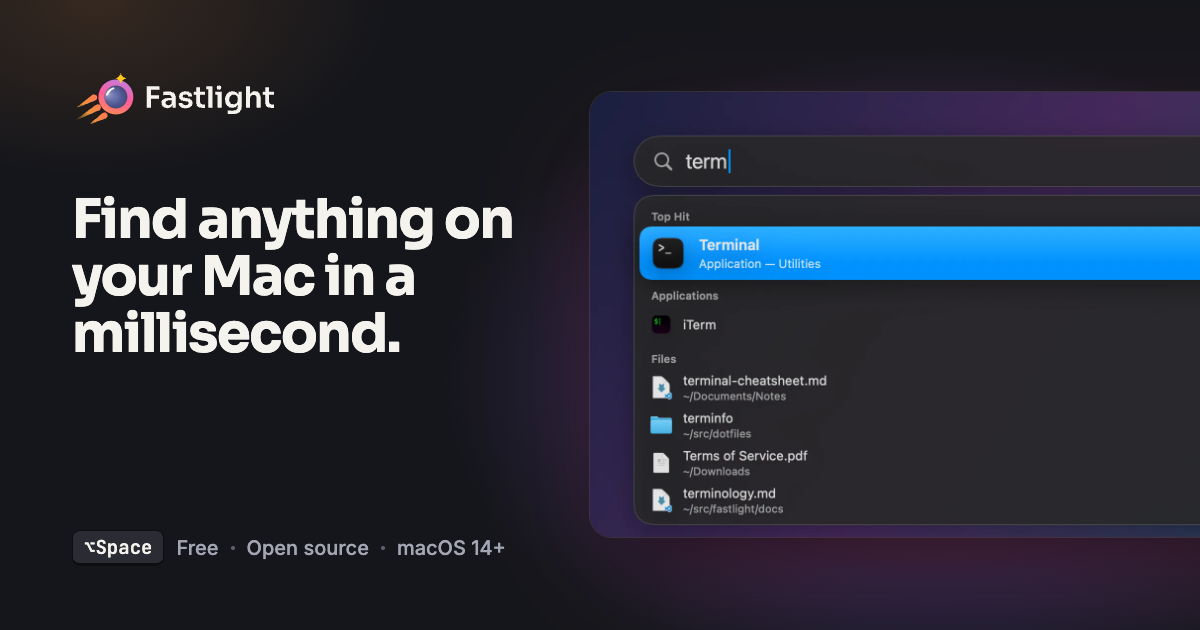
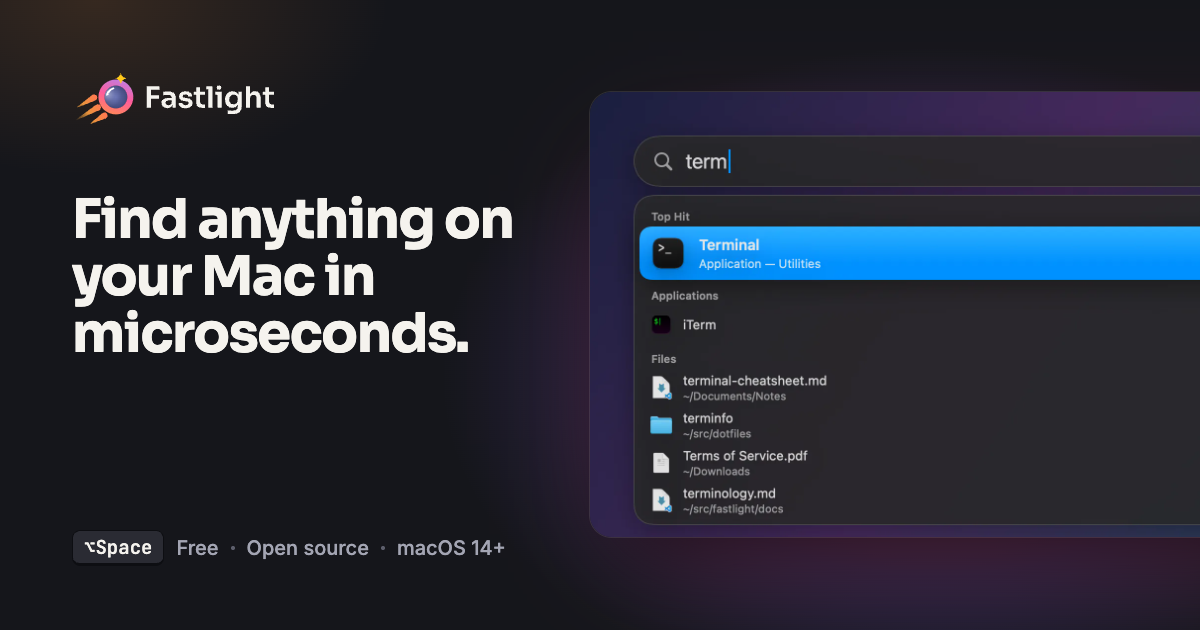
docs: microseconds, not a millisecond, and fsearch's current numbers (#29)
The fsearch bundled since 0.5.0 finds a file by name in 0.13 ms (median),
so the README, the site, its meta tags and the og images now say
microseconds. The site's speed table had the numbers of the fsearch before
the upgrade (7.7M files, 1.3 ms, 9 ms, ~20 s first crawl); it now has
fsearch's README at b88f4e9: 8.3M files, 0.13 ms, 2.3 ms, 49 s until fully
searchable.

Changed region(s): [[0.1233, 0.4222, 0.4008, 0.573]]

diff --git a/site/index.html b/site/index.html
@@ -18,7 +18,7 @@ FORM: Product-led landing page, brand pinned by assets/brand/BRAND.md.
 <meta charset="utf-8">
 <meta name="viewport" content="width=device-width, initial-scale=1">
 <title>Fastlight: a fast, free launcher for macOS</title>
-<meta name="description" content="Fastlight is a free, open-source Spotlight-style launcher for macOS. Press ⌥Space and find apps and any file on your disk in about a millisecond, powered by fsearch.">
+<meta name="description" content="Fastlight is a free, open-source Spotlight-style launcher for macOS. Press ⌥Space and find apps and any file on your disk in microseconds, powered by fsearch.">
 <link rel="canonical" href="https://elboletaire.github.io/fastlight/">
 <meta name="theme-color" content="#15161B" media="(prefers-color-scheme: light)">
 <meta name="theme-color" content="#15161B" media="(prefers-color-scheme: dark)">
@@ -29,15 +29,15 @@ FORM: Product-led landing page, brand pinned by assets/brand/BRAND.md.
 <meta property="og:locale" content="en_US">
 <meta property="og:url" content="https://elboletaire.github.io/fastlight/">
 <meta property="og:title" content="Fastlight: a fast, free launcher for macOS">
-<meta property="og:description" content="Press ⌥Space, type, and find apps and any file on your disk in about a millisecond. Free and open source, powered by fsearch.">
+<meta property="og:description" content="Press ⌥Space, type, and find apps and any file on your disk in microseconds. Free and open source, powered by fsearch.">
 <meta property="og:image" content="https://elboletaire.github.io/fastlight/og.png">
 <meta property="og:image:type" content="image/png">
 <meta property="og:image:width" content="1200">
 <meta property="og:image:height" content="630">
-<meta property="og:image:alt" content="The Fastlight panel showing Terminal as the top hit for the query “term”, next to the Fastlight logo and the line “Find anything on your Mac in a millisecond.”">
+<meta property="og:image:alt" content="The Fastlight panel showing Terminal as the top hit for the query “term”, next to the Fastlight logo and the line “Find anything on your Mac in microseconds.”">
 <meta name="twitter:card" content="summary_large_image">
 <meta name="twitter:title" content="Fastlight: a fast, free launcher for macOS">
-<meta name="twitter:description" content="Press ⌥Space, type, and find apps and any file on your disk in about a millisecond. Free and open source, powered by fsearch.">
+<meta name="twitter:description" content="Press ⌥Space, type, and find apps and any file on your disk in microseconds. Free and open source, powered by fsearch.">
 <meta name="twitter:image" content="https://elboletaire.github.io/fastlight/og.png">
 <meta name="twitter:image:alt" content="The Fastlight panel showing Terminal as the top hit for the query “term”, next to the Fastlight logo.">
 
@@ -59,7 +59,7 @@ FORM: Product-led landing page, brand pinned by assets/brand/BRAND.md.
   "@context": "https://schema.org",
   "@type": "SoftwareApplication",
   "name": "Fastlight",
-  "description": "A free, open-source Spotlight-style launcher for macOS. Finds applications and files across the whole disk in about a millisecond, powered by fsearch.",
+  "description": "A free, open-source Spotlight-style launcher for macOS. Finds applications and files across the whole disk in microseconds, powered by fsearch.",
   "url": "https://elboletaire.github.io/fastlight/",
   "image": "https://elboletaire.github.io/fastlight/og.png",
   "screenshot": "https://elboletaire.github.io/fastlight/assets/hero-apps-1536.webp",
@@ -106,7 +106,7 @@ FORM: Product-led landing page, brand pinned by assets/brand/BRAND.md.
     <div class="hero-copy">
       <h1 id="hero-title">Find anything on your&nbsp;Mac before you finish&nbsp;typing.</h1>
       <div class="hero-side">
-        <p class="lede">Fastlight is a free, open-source launcher for macOS. Press <kbd>⌥Space</kbd>, type a few letters, and it finds your apps and every file on the disk in about a millisecond.</p>
+        <p class="lede">Fastlight is a free, open-source launcher for macOS. Press <kbd>⌥Space</kbd>, type a few letters, and it finds your apps and every file on the disk in microseconds.</p>
         <div class="cta-row">
           <a class="btn btn-comet" href="https://github.com/elboletaire/fastlight/releases/latest">
             <svg viewBox="0 0 20 20" width="20" height="20" aria-hidden="true"><path d="M10 3v10m0 0-4-4m4 4 4-4M4 16h12" fill="none" stroke="currentColor" stroke-width="2" stroke-linecap="round" stroke-linejoin="round"/></svg>
@@ -149,18 +149,18 @@ FORM: Product-led landing page, brand pinned by assets/brand/BRAND.md.
 <div class="page">
   <section id="fast" class="section wrap" aria-labelledby="fast-title">
     <div class="split split-head">
-      <h2 id="fast-title">Millions of files. About a&nbsp;millisecond.</h2>
+      <h2 id="fast-title">Millions of files. Microseconds.</h2>
       <p class="intro">Fastlight ships <a href="https://github.com/noahdunnagan/fsearch">fsearch</a>, a whole-disk index that crawls once, then follows every change through FSEvents. Typing never waits on the disk.</p>
     </div>
 
     <div class="bench">
       <table>
-        <caption>fsearch’s own benchmark: M4 Max, 7.7 million files and folders on disk.</caption>
+        <caption>fsearch’s own benchmark: M4 Max, 8.3 million files on disk.</caption>
         <tbody>
-          <tr><th scope="row">Find a file by name, whole disk</th><td><span class="num">1.3</span> ms</td></tr>
-          <tr><th scope="row">Search inside files</th><td><span class="num">9</span> ms</td></tr>
+          <tr><th scope="row">Find a file by name, whole disk</th><td><span class="num">0.13</span> ms</td></tr>
+          <tr><th scope="row">Search inside files</th><td><span class="num">2.3</span> ms</td></tr>
           <tr><th scope="row">A new, renamed or deleted file shows up</th><td><span class="num">~0.1</span> s</td></tr>
-          <tr><th scope="row">First crawl of the disk, once</th><td><span class="num">~20</span> s</td></tr>
+          <tr><th scope="row">First run, until fully searchable</th><td><span class="num">49</span> s</td></tr>
         </tbody>
       </table>
       <p class="bench-note">Median (p50) times. Your Mac and your disk will differ.</p>
@@ -380,7 +380,7 @@ FORM: Product-led landing page, brand pinned by assets/brand/BRAND.md.
         </details>
         <details>
           <summary>How is it different from Spotlight?</summary>
-          <p>Spotlight relies on metadata importers and decides what is worth indexing; Fastlight indexes every file name it can reach and answers fuzzy, typo-tolerant queries in about a millisecond. It keeps apps and files in separate sections and adds a query language with filters such as <code>in:</code>, <code>mtime:</code> and <code>grep:</code>. It doesn’t replace Spotlight, so you can keep both.</p>
+          <p>Spotlight relies on metadata importers and decides what is worth indexing; Fastlight indexes every file name it can reach and answers fuzzy, typo-tolerant queries in microseconds. It keeps apps and files in separate sections and adds a query language with filters such as <code>in:</code>, <code>mtime:</code> and <code>grep:</code>. It doesn’t replace Spotlight, so you can keep both.</p>
         </details>
         <details>
           <summary>Can I extend it?</summary>

diff --git a/site/og/og.html b/site/og/og.html
@@ -36,7 +36,7 @@
   <div class="glow"></div>
   <div class="copy">
     <img class="lockup" src="../brand/logo-lockup-dark.svg" alt="Fastlight">
-    <h1>Find anything on your Mac in a millisecond.</h1>
+    <h1>Find anything on your Mac in microseconds.</h1>
   </div>
   <div class="meta"><kbd>⌥Space</kbd><span>Free</span><span class="dot"></span><span>Open source</span><span class="dot"></span><span>macOS 14+</span></div>
   <div class="shot"><img src="../assets/hero-apps-1536.webp" alt=""></div>

diff --git a/README.md b/README.md
@@ -4,7 +4,7 @@
 
 # Fastlight
 
-*A Spotlight-style launcher for macOS that finds any app or file in about a millisecond.*
+*A Spotlight-style launcher for macOS that finds any app or file in microseconds.*
 
 [![CI](https://github.com/elboletaire/fastlight/actions/workflows/ci.yml/badge.svg)](https://github.com/elboletaire/fastlight/actions/workflows/ci.yml)
 ![macOS 14+](https://img.shields.io/badge/macOS-14%2B-15161B?style=flat-square&logo=apple)
@@ -14,7 +14,7 @@
 
 [Features](#features) • [Install](#install) • [Usage](#usage) • [Replace Spotlight](#replace-spotlight) • [Extensions](#extensions) • [Build from source](#build-from-source) • [How it works](#how-it-works) • [Website](https://elboletaire.github.io/fastlight/)
 
-<img src="site/og.png" alt="Fastlight: find anything on your Mac in a millisecond" width="800">
+<img src="site/og.png" alt="Fastlight: find anything on your Mac in microseconds" width="800">
 
 </div>
 
@@ -23,7 +23,7 @@ Press **⌥Space** anywhere, type a few letters, hit **↵**. Fastlight searches
 ## Features
 
 - **Apps and files, kept apart.** A Top Hit, then Applications with their real icons, then Files, each in its own section.
-- **Fast, all the time.** Name search over millions of files in about a millisecond, so results update on every keystroke with no debounce.
+- **Fast, all the time.** Name search over millions of files in microseconds, so results update on every keystroke with no debounce.
 - **Forgiving matching.** `vsc` finds Visual Studio Code, `sys set` finds System Settings, `mian.rs` still finds `main.rs`. Apps you open often move up.
 - **Search inside files.** `grep:`, `regex:` and `sym:` search file contents through fsearch's index and show the matching line. ↵ opens it at that line in VS Code, Cursor, VSCodium, Zed, BBEdit or TextMate, when one of them is the file's default app.
 - **Power-user filters.** `ext:`, `in:`, `size:`, `mtime:`, `kind:` and more, straight from the search field.
@@ -65,7 +65,7 @@ Press **⌥Space** anywhere, type a few letters, hit **↵**. Fastlight searches
 > [!TIP]
 > Want another shortcut? Pick one in **Settings…** from the menu bar icon. For **⌘Space**, see [Replace Spotlight](#replace-spotlight).
 
-The first time it runs, fsearch indexes the whole disk (around 20 seconds) and Fastlight shows its progress. After that the index stays current on its own and survives restarts. Apps are searched from the start, even while files are still being indexed.
+The first time it runs, fsearch indexes the whole disk (under a minute, even with millions of files) and Fastlight shows its progress. After that the index stays current on its own and survives restarts. Apps are searched from the start, even while files are still being indexed.
 
 ### Troubleshooting
 
